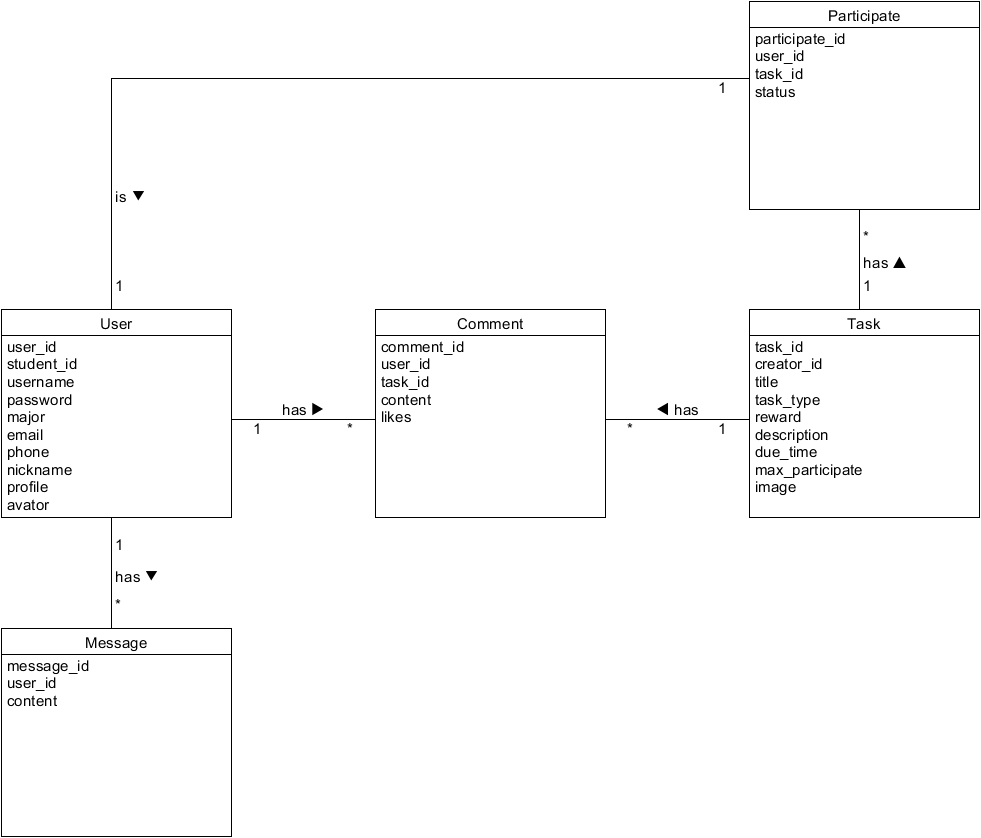
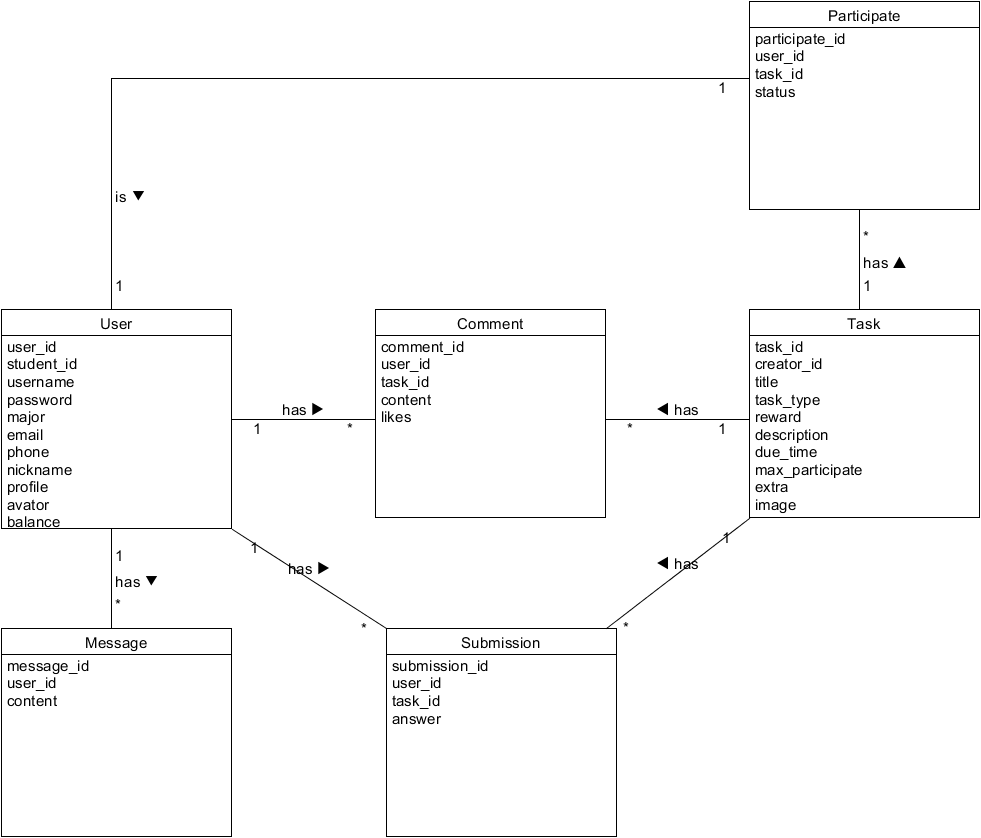
Update database doc and domain model

diff --git a/design/DatabaseDesign.md b/design/DatabaseDesign.md
@@ -60,20 +60,22 @@
 |   email    | varchar(30) |      |  电子邮箱   |
 |   phone    | varchar(20) |      |    电话     |
 |   avator   |   binary    |      |    头像     |
+|  balance   |     int     |      |    余额     |
 
 - **Task**
 
-|      Field      |    Type     | Key  |  Description   |
-| :-------------: | :---------: | :--: | :------------: |
-|     task_id     |     int     | PRI  |     任务id     |
-|   creator_id    |     int     |      |    创建者id    |
-|      title      | varchar(20) |      |      标题      |
-|    task_type    |     int     |      |    任务类型    |
-|     reward      |     int     |      |    任务报酬    |
-|   description   |    text     |      |    任务描述    |
-|    due_time     |  datetime   |      |    截止时间    |
-| max_participate |     int     |      | 最大参与者数量 |
-|      image      |   binary    |      |    任务图片    |
+|      Field      |    Type     | Key  |    Description     |
+| :-------------: | :---------: | :--: | :----------------: |
+|     task_id     |     int     | PRI  |       任务id       |
+|   creator_id    |     int     |      |      创建者id      |
+|      title      | varchar(20) |      |        标题        |
+|    task_type    |     int     |      |      任务类型      |
+|     reward      |     int     |      |      任务报酬      |
+|   description   |    text     |      |      任务描述      |
+|    due_time     |  datetime   |      |      截止时间      |
+| max_participate |     int     |      |   最大参与者数量   |
+|      extra      |    text     |      | 任务内容，json格式 |
+|      image      |   binary    |      |      任务图片      |
 
 - **Comment**
 
@@ -108,3 +110,12 @@
 | message_id |     int      | PRI  |   消息id    |
 |  user_id   |     int      |      |   用户id    |
 |  content   | varchar(100) |      |  消息内容   |
+
+- **Submission**
+
+|     Field     | Type | Key  |    Description     |
+| :-----------: | :--: | :--: | :----------------: |
+| submission_id | int  | PRI  |       消息id       |
+|    user_id    | int  |      |       用户id       |
+|    task_id    | int  |      |       任务id       |
+|    answer     | text |      | 问卷答案，json格式 |
